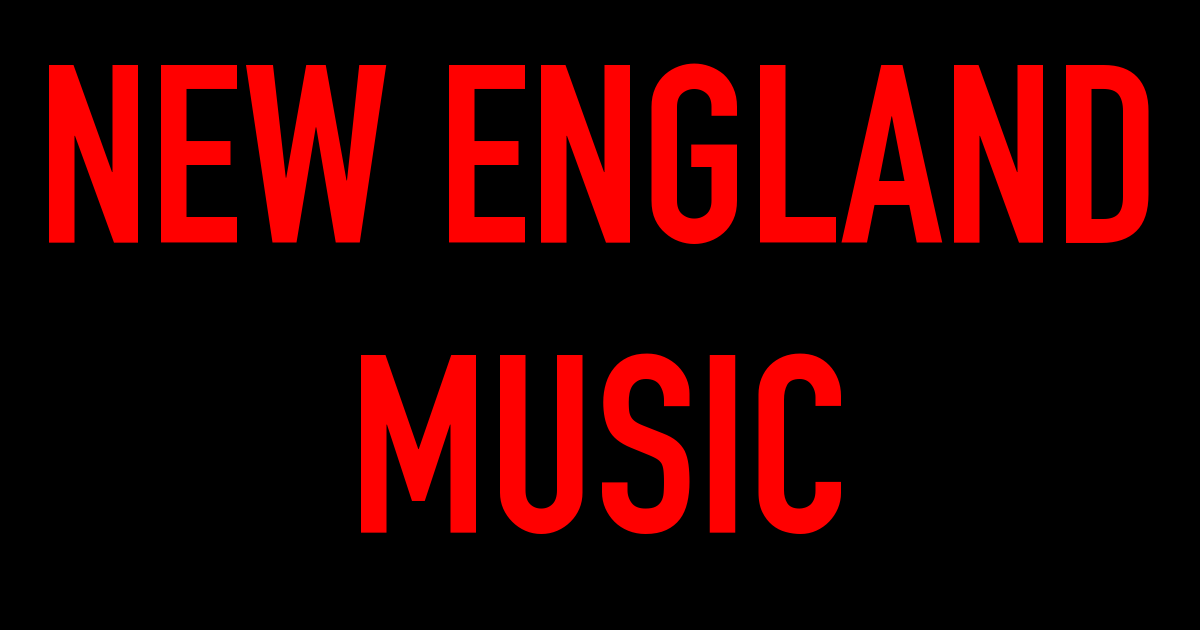
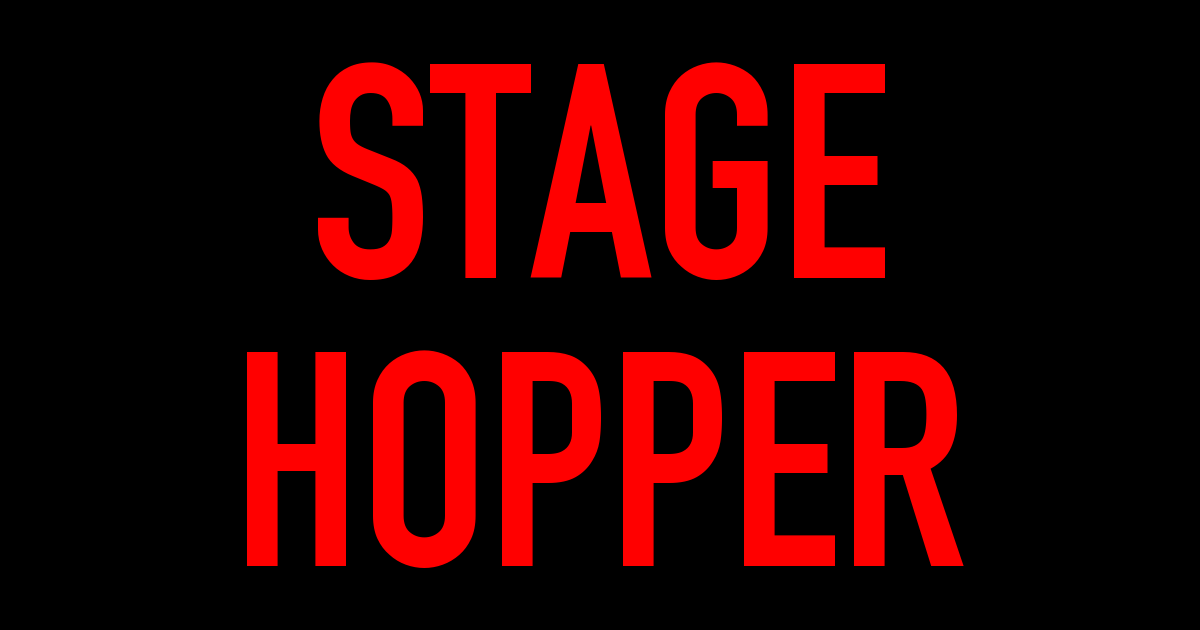
Name the site StageHopper, with a New England tagline
SITE_NAME defaults to "StageHopper" and is read everywhere the name was
typed in: the masthead, the admin's title and header, Open Graph's default
title and each event's calendar entry. A new SITE_TAGLINE ("Live music
across New England", hidden when blank) sits under the masthead's name,
and UID_DOMAIN defaults to "stagehopper". The share preview image and the
web manifest's names say StageHopper. Tests pin the defaults in a fresh
interpreter, whatever a developer's .env sets.

Changed region(s): [[0.0308, 0.0905, 0.9558, 0.4524], [0.185, 0.5429, 0.8017, 0.9048]]

diff --git a/core/templates/core/base.html b/core/templates/core/base.html
@@ -150,7 +150,8 @@
                       <a href="javascript:;" onclick="toggleBurgerMenuContents()">☰</a>
                   </div>
                   <div class='leftColumn'>
-                      <a href="/"><h1>New England Music</h1></a>
+                      <a href="/"><h1>{{ site_name }}</h1></a>
+                      {% if site_tagline %}<p class="tagline">{{ site_tagline }}</p>{% endif %}
                   </div>
                   <div class='rightColumn'>
                       <div>

diff --git a/core/static/core/scss/header.scss b/core/static/core/scss/header.scss
@@ -34,6 +34,13 @@ div.header {
     text-decoration: none;
   }
 
+  // the tagline under the masthead's name (SITE_TAGLINE), in DESIGN.md's small text
+  .leftColumn .tagline {
+    margin: -0.4em 0 0;
+    font-size: 0.85rem;
+    color: #555;
+  }
+
   .rightColumn {
     text-align: right;
 

diff --git a/core/tests/test_calendar_feeds.py b/core/tests/test_calendar_feeds.py
@@ -18,7 +18,7 @@ def summaries(response):
 
 
 # the defaults, whatever SITE_NAME and UID_DOMAIN a developer's .env sets
-DEFAULTS = override_settings(SITE_NAME="New England Music", UID_DOMAIN="newenglandmusic")
+DEFAULTS = override_settings(SITE_NAME="StageHopper", UID_DOMAIN="stagehopper")
 
 
 @DEFAULTS
@@ -35,7 +35,7 @@ class SingleEventDownloadTestCase(TestCase):
 
     def test_uid_doesnt_depend_on_the_sites_address(self):
         with self.settings(SITE_URL="https://newenglandmusic.example"):
-            self.assertEqual(event_uid(self.event), f"event-{self.event.pk}@newenglandmusic")
+            self.assertEqual(event_uid(self.event), f"event-{self.event.pk}@stagehopper")
 
     def test_uid_domain_from_the_settings(self):
         with self.settings(UID_DOMAIN="boston-shows"):
@@ -81,13 +81,13 @@ class FeedTestCase(TestCase):
         response = self.client.get("/calendar.ics?state=" + self.slug("Vermont"))
         self.assertEqual(response.status_code, 200)
         self.assertEqual(response["Content-Type"], "text/calendar; charset=utf-8")
-        self.assertEqual(summaries(response), ["burlington show [New England Music]"])
+        self.assertEqual(summaries(response), ["burlington show [StageHopper]"])
 
     def test_metro_feed(self):
         self.show("boston show", "Boston")
         self.show("cape show", "Hyannis")
         response = self.client.get("/calendar.ics?metro=" + self.slug("MA: Boston"))
-        self.assertEqual(summaries(response), ["boston show [New England Music]"])
+        self.assertEqual(summaries(response), ["boston show [StageHopper]"])
 
     def test_whole_northeast(self):
         for city in ("Boston", "Hyannis", "Burlington", "Providence"):
@@ -98,7 +98,7 @@ class FeedTestCase(TestCase):
         self.show("burlington show", "Burlington")
         self.client.cookies[GEO_COOKIE] = "state=" + self.slug("Massachusetts")
         response = self.client.get("/calendar.ics?state=" + self.slug("Vermont"))
-        self.assertEqual(summaries(response), ["burlington show [New England Music]"])
+        self.assertEqual(summaries(response), ["burlington show [StageHopper]"])
         self.assertNotIn(GEO_COOKIE, response.cookies)
 
     def test_unknown_area(self):
@@ -124,22 +124,29 @@ class FeedTestCase(TestCase):
             self.show(f"day {days}", "Boston", days=days)
         self.assertEqual(
             summaries(self.client.get("/calendar.ics")),
-            ["day -2 [New England Music]", "day 30 [New England Music]"],
+            ["day -2 [StageHopper]", "day 30 [StageHopper]"],
         )
 
     def test_unapproved_event_left_out(self):
         self.show("waiting", "Boston", is_approved=False)
         self.show("approved", "Boston")
-        self.assertEqual(summaries(self.client.get("/calendar.ics")), ["approved [New England Music]"])
+        self.assertEqual(summaries(self.client.get("/calendar.ics")), ["approved [StageHopper]"])
 
     def test_calendar_name_and_refresh(self):
         response = self.client.get("/calendar.ics?metro=" + self.slug("MA: Cape Cod"))
         cal = parse(response)
-        self.assertEqual(str(cal["X-WR-CALNAME"]), "New England Music: MA: Cape Cod")
+        self.assertEqual(str(cal["X-WR-CALNAME"]), "StageHopper: MA: Cape Cod")
         text = response.content.decode()
         self.assertIn("REFRESH-INTERVAL;VALUE=DURATION:PT6H", text)
         self.assertIn("X-PUBLISHED-TTL:PT6H", text)
-        self.assertEqual(str(parse(self.client.get("/calendar.ics"))["X-WR-CALNAME"]), "New England Music")
+        self.assertEqual(str(parse(self.client.get("/calendar.ics"))["X-WR-CALNAME"]), "StageHopper")
+
+    def test_default_names(self):
+        # the defaults themselves are pinned in test_site_identity.DefaultsTestCase
+        response = self.client.get("/calendar.ics?state=" + self.slug("Vermont"))
+        self.assertEqual(str(parse(response)["X-WR-CALNAME"]), "StageHopper: Vermont")
+        event = Event.objects.create(title="default names", starttime=self.now + timedelta(days=1))
+        self.assertEqual(event_uid(event), f"event-{event.pk}@stagehopper")
 
     def test_calendar_name_from_the_settings(self):
         with self.settings(SITE_NAME="Boston Shows"):
@@ -161,7 +168,7 @@ class FeedTestCase(TestCase):
         self.show("new show", "Boston", days=4)
         again = self.client.get("/calendar.ics", HTTP_IF_NONE_MATCH=first["ETag"])
         self.assertEqual(again.status_code, 200)
-        self.assertIn("new show [New England Music]", summaries(again))
+        self.assertIn("new show [StageHopper]", summaries(again))
         self.assertNotEqual(again["ETag"], first["ETag"])
 
 

diff --git a/core/tests/test_site_identity.py b/core/tests/test_site_identity.py
@@ -1,0 +1,91 @@
+"""site-identity: the site's name and tagline, its address and redirects, the health check,
+and the terms and privacy pages (openspec change rename-to-stagehopper)"""
+import json
+import os
+import subprocess
+import sys
+import uuid
+from pathlib import Path
+
+from core.models import Event, Venue
+from django.contrib.auth import get_user_model
+from django.test import SimpleTestCase, TestCase, override_settings
+from django.utils import timezone
+
+PROJECT_ROOT = Path(__file__).resolve().parents[2]
+
+# reads the base settings in a fresh interpreter, with none of the site's name settings in
+# the environment, so the defaults are tested whatever a developer's .env says
+READ_DEFAULTS = """
+import json
+from nycnoise.settings import base
+print(json.dumps({
+    "site_name": base.SITE_NAME,
+    "site_tagline": base.SITE_TAGLINE,
+    "uid_domain": base.UID_DOMAIN,
+    "canonical_host": base.CANONICAL_HOST,
+}))
+"""
+NAME_SETTINGS = ("SITE_NAME", "SITE_TAGLINE", "UID_DOMAIN", "CANONICAL_HOST")
+
+
+def default_settings():
+    env = {key: value for key, value in os.environ.items() if key not in NAME_SETTINGS}
+    result = subprocess.run(
+        [sys.executable, "-c", READ_DEFAULTS], capture_output=True, text=True, check=True, cwd=PROJECT_ROOT, env=env
+    )
+    return json.loads(result.stdout.strip().splitlines()[-1])
+
+
+class DefaultsTestCase(SimpleTestCase):
+    """the defaults the scenarios' "unset" cases rely on"""
+
+    def test_the_defaults(self):
+        self.assertEqual(
+            default_settings(),
+            {
+                "site_name": "StageHopper",
+                "site_tagline": "Live music across New England",
+                "uid_domain": "stagehopper",
+                "canonical_host": "",
+            },
+        )
+
+
+@override_settings(SITE_NAME="StageHopper", SITE_TAGLINE="Live music across New England")
+class TheSiteIsNamedTestCase(TestCase):
+    """The site is named StageHopper; the masthead carries a tagline"""
+
+    def test_the_masthead_and_title(self):
+        response = self.client.get("/")
+        self.assertContains(response, "<h1>StageHopper</h1>")
+        self.assertContains(response, "<title>StageHopper</title>")
+        self.assertContains(response, '<meta property="og:title" content="StageHopper">')
+
+    def test_the_default_tagline(self):
+        response = self.client.get("/")
+        self.assertContains(response, '<h1>StageHopper</h1></a>\n                      <p class="tagline">Live music across New England</p>')
+
+    @override_settings(SITE_TAGLINE=" ")
+    def test_no_tagline(self):
+        response = self.client.get("/")
+        self.assertContains(response, "<h1>StageHopper</h1>")
+        self.assertNotContains(response, 'class="tagline"')
+
+    def test_an_events_calendar_entry(self):
+        venue = Venue.objects.create(name=f"venue {uuid.uuid4()}", city_town="Boston", state="MA")
+        event = Event.objects.create(title="Dummy Ache", starttime=timezone.now(), venue=venue)
+        content = self.client.get(f"/event/{event.pk}/ics").content.decode()
+        self.assertIn("SUMMARY:Dummy Ache [StageHopper]", content)
+
+
+@override_settings(SITE_NAME="Boston Shows")
+class ANameFromTheSettingTestCase(TestCase):
+    def test_a_name_from_the_setting(self):
+        self.assertContains(self.client.get("/"), "<h1>Boston Shows</h1>")
+        admin_user = get_user_model().objects.create_superuser("editor", "editor@example.org", "x")
+        self.client.force_login(admin_user)
+        self.assertContains(self.client.get("/admin/"), "Boston Shows")
+        venue = Venue.objects.create(name=f"venue {uuid.uuid4()}", city_town="Boston", state="MA")
+        event = Event.objects.create(title="Dummy Ache", starttime=timezone.now(), venue=venue)
+        self.assertIn("SUMMARY:Dummy Ache [Boston Shows]", self.client.get(f"/event/{event.pk}/ics").content.decode())

diff --git a/nycnoise/settings/base.py b/nycnoise/settings/base.py
@@ -228,12 +228,18 @@ META_USE_TITLE_TAG = True
 SITE_URL = (
     os.environ.get("SITE_URL") or os.environ.get("RENDER_EXTERNAL_URL") or "http://localhost:8001"
 ).rstrip("/")
-# the site's name: the calendar feeds' names ("New England Music: Vermont"; see
-# core/calendar_feeds.py) and the "install" banner on iphones (base.html)
-SITE_NAME = os.environ.get("SITE_NAME") or "New England Music"
-# the part after "@" in each show's calendar UID. keep it fixed: changing it after people
-# subscribe makes their calendars show every show twice
-UID_DOMAIN = os.environ.get("UID_DOMAIN") or "newenglandmusic"
+# the site's name: the masthead, page titles and link previews, the admin's header, the
+# calendar feeds' names ("StageHopper: Vermont"; see core/calendar_feeds.py), each event's
+# calendar entry, the privacy and terms pages, and the "install" banner on iphones
+SITE_NAME = os.environ.get("SITE_NAME") or "StageHopper"
+# the line under the name in the masthead; blank or spaces hide it
+SITE_TAGLINE = os.environ.get("SITE_TAGLINE", "Live music across New England")
+# the part after "@" in each show's calendar UID. keep it fixed once people subscribe:
+# changing it makes their calendars show every show twice
+UID_DOMAIN = os.environ.get("UID_DOMAIN") or "stagehopper"
+# the host every other host redirects to (core/middleware.py), set only in production
+# (stagehopper.app); empty, the default, redirects nothing, so tests and development don't
+CANONICAL_HOST = os.environ.get("CANONICAL_HOST", "").strip().lower()
 META_SITE_PROTOCOL = urlparse(SITE_URL).scheme
 META_SITE_DOMAIN = urlparse(SITE_URL).netloc
 META_SITE_TYPE = "website"

diff --git a/core/tests/test_event_calendar_links.py b/core/tests/test_event_calendar_links.py
@@ -2,10 +2,11 @@ import uuid
 from urllib.parse import parse_qs, urlparse
 
 from core.models import Event, Venue
-from django.test import TestCase
+from django.test import TestCase, override_settings
 from django.utils import timezone
 
 
+@override_settings(SITE_NAME="StageHopper")
 class EventCalendarLinksTestCase(TestCase):
     def setUp(self):
         self.venue = Venue.objects.create(
@@ -20,11 +21,11 @@ class EventCalendarLinksTestCase(TestCase):
         self.assertEqual(response.status_code, 302)
         params = parse_qs(urlparse(response["Location"]).query)
         self.assertEqual(params["location"][0], f"{self.venue.name}, Hartford, CT")
-        self.assertEqual(params["text"][0], f"{self.event.title} [New England Music]")
+        self.assertEqual(params["text"][0], f"{self.event.title} [StageHopper]")
 
     def test_ics_download_includes_venue_location(self):
         response = self.client.get(f"/event/{self.event.pk}/ics")
         self.assertEqual(response.status_code, 200)
         content = response.content.decode()
         self.assertIn(f"LOCATION:{self.venue.name}\\, Hartford\\, CT", content)
-        self.assertIn(f"SUMMARY:{self.event.title} [New England Music]", content)
+        self.assertIn(f"SUMMARY:{self.event.title} [StageHopper]", content)

diff --git a/core/opengraph.py b/core/opengraph.py
@@ -2,7 +2,10 @@ from meta.views import Meta
 from django.templatetags.static import static
 from typing import Optional
 
-DEFAULT_TITLE = "New England Music"
+from django.conf import settings
+
+# None means the site's name, read when the page is built (SITE_NAME)
+DEFAULT_TITLE = None
 DEFAULT_DESCRIPTION = (
     "Live music calendar for New England and the Northeast: concerts, DJ nights"
     " and open mics at venues across the region."
@@ -21,7 +24,7 @@ def get_meta(
 
     Args:
         url (str, optional): The base URL for the page. Defaults to None.
-        title (str, optional): The title of the page. Defaults to "New England Music".
+        title (str, optional): The title of the page. Defaults to the site's name (SITE_NAME).
         description (str, optional): A brief description of the page content.
             Defaults to a description of the New England music calendar.
         redirect (str): If provided, sets up a page redirect to the specified URL.
@@ -29,7 +32,7 @@ def get_meta(
             Defaults to 0 seconds if not specified.
     """
     meta = Meta(
-        title=title,
+        title=title or settings.SITE_NAME,
         url=f"{url or ''}/",
         description=description,
         image=static("core/images/share-preview.png"),

diff --git a/core/tests/test_opengraph.py b/core/tests/test_opengraph.py
@@ -1,5 +1,5 @@
 from django.conf import settings
-from django.test import TestCase
+from django.test import TestCase, override_settings
 from core.tests.test_utils import create_static_test_page
 
 # share links use SITE_URL from .env
@@ -7,19 +7,20 @@ expected_url = f"{settings.SITE_URL}/"
 expected_domain = settings.META_SITE_DOMAIN
 
 
+@override_settings(SITE_NAME="StageHopper")
 class OpengraphTagsTestCase(TestCase):
     def test_opengraph_tags_index(self):
         expected_description = (
             "Live music calendar for New England and the Northeast: concerts, DJ nights"
             " and open mics at venues across the region."
         )
-        expected_title = "New England Music"
+        expected_title = "StageHopper"
         expected_image = (
             f"{expected_url}static/core/images/share-preview.png"
         )
 
         response = self.client.get("/")
-        self.assertContains(response, "<title>New England Music</title>")
+        self.assertContains(response, "<title>StageHopper</title>")
         self.assertContains(
             response, f'<meta name="description" content="{expected_description}">'
         )

diff --git a/core/admin.py b/core/admin.py
@@ -5,12 +5,14 @@ from datetime import date
 
 from dateutil import relativedelta
 from core import link_hubs
+from django.conf import settings
 from django.contrib import admin
 from django import forms
 from django.contrib import messages
 from django.contrib.admin import SimpleListFilter
 from django.contrib.admin.options import IncorrectLookupParameters
 from django.db.models import Q, URLField
+from django.utils.functional import lazy
 from django.http import Http404, HttpResponse, HttpResponseBadRequest
 from django.shortcuts import get_object_or_404
 from django.urls import path, reverse
@@ -58,8 +60,9 @@ from .utils_datemath import (
     get_previous_current_next_month_start,
 )
 
-admin.site.site_title = "New England Music"
-admin.site.site_header = "New England Music"
+# read when the admin renders, so SITE_NAME (and a test's override) is the name it shows
+admin.site.site_title = lazy(lambda: settings.SITE_NAME, str)()
+admin.site.site_header = lazy(lambda: settings.SITE_NAME, str)()
 
 admin.site.register(IndexPageMessages, SingletonModelAdmin)
 

diff --git a/core/tests/test_band_pages.py b/core/tests/test_band_pages.py
@@ -3,6 +3,7 @@ import os
 from unittest import mock
 
 from core.models import Artist, Band, BandMembership, Event, EventPerformer, Venue
+from django.conf import settings
 from django.test import TestCase
 from django.urls import reverse
 from django.utils import timezone
@@ -151,7 +152,7 @@ class BandPageTestCase(TestCase):
 
     def test_title_and_image_text(self):
         html = self.page(self.full_band()).content.decode()
-        self.assertIn("<title>Built To Spill | New England Music</title>", html)
+        self.assertIn(f"<title>Built To Spill | {settings.SITE_NAME}</title>", html)
         self.assertIn('alt="Built To Spill"', html)
 
 

diff --git a/core/tests/test_index_page.py b/core/tests/test_index_page.py
@@ -1,10 +1,11 @@
-from django.test import TestCase
+from django.test import TestCase, override_settings
 
 
+@override_settings(SITE_NAME="StageHopper")
 class IndexPageTestCase(TestCase):
     def test_index_page(self):
         response = self.client.get("/")
         self.assertEqual(response.status_code, 200)
         self.assertTemplateUsed(response, "core/index.html")
-        self.assertContains(response, "<h1>New England Music</h1>")
+        self.assertContains(response, "<h1>StageHopper</h1>")
         self.assertNotContains(response, "always incomplete")

diff --git a/core/models.py b/core/models.py
@@ -1,3 +1,4 @@
+from django.conf import settings
 from django.contrib.postgres.fields import ArrayField
 from django.contrib.postgres.indexes import GinIndex
 from django.contrib.postgres.search import SearchVectorField
@@ -252,7 +253,7 @@ class Event(models.Model):
     @property
     def calendar_name(self):
         """the event name to show on calendars"""
-        return f"{self.title_and_artists} [New England Music]"
+        return f"{self.title_and_artists} [{settings.SITE_NAME}]"
 
     def __str__(self):
         return self.title_and_artists
